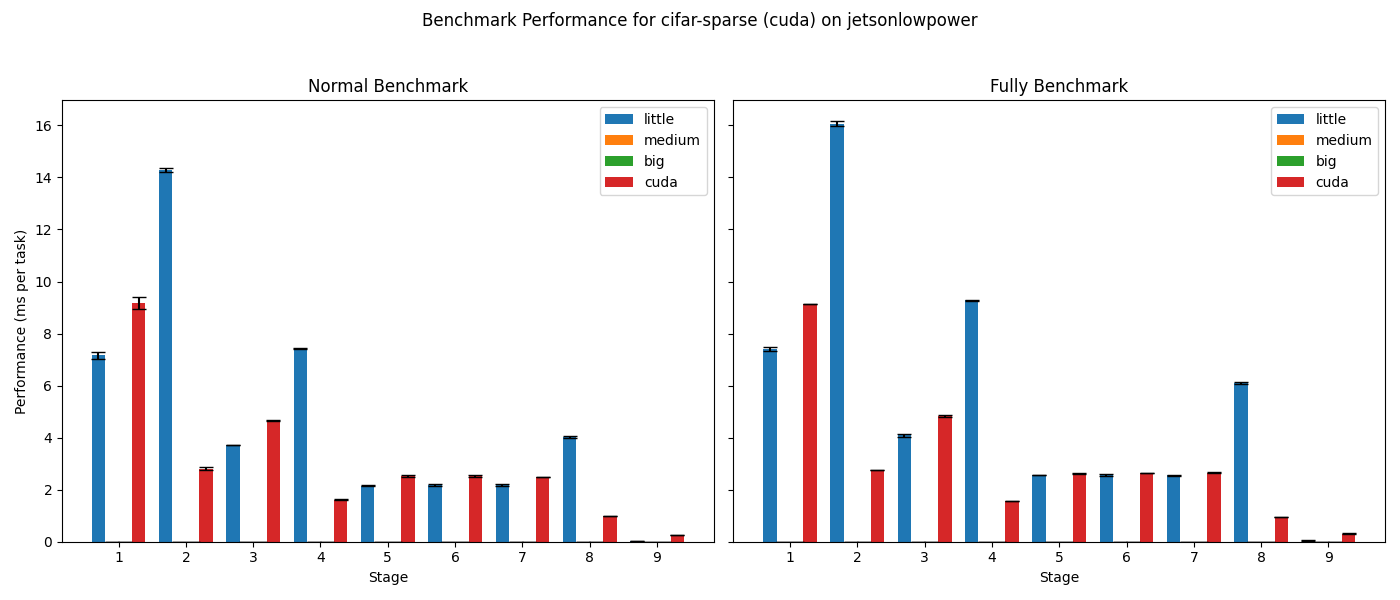
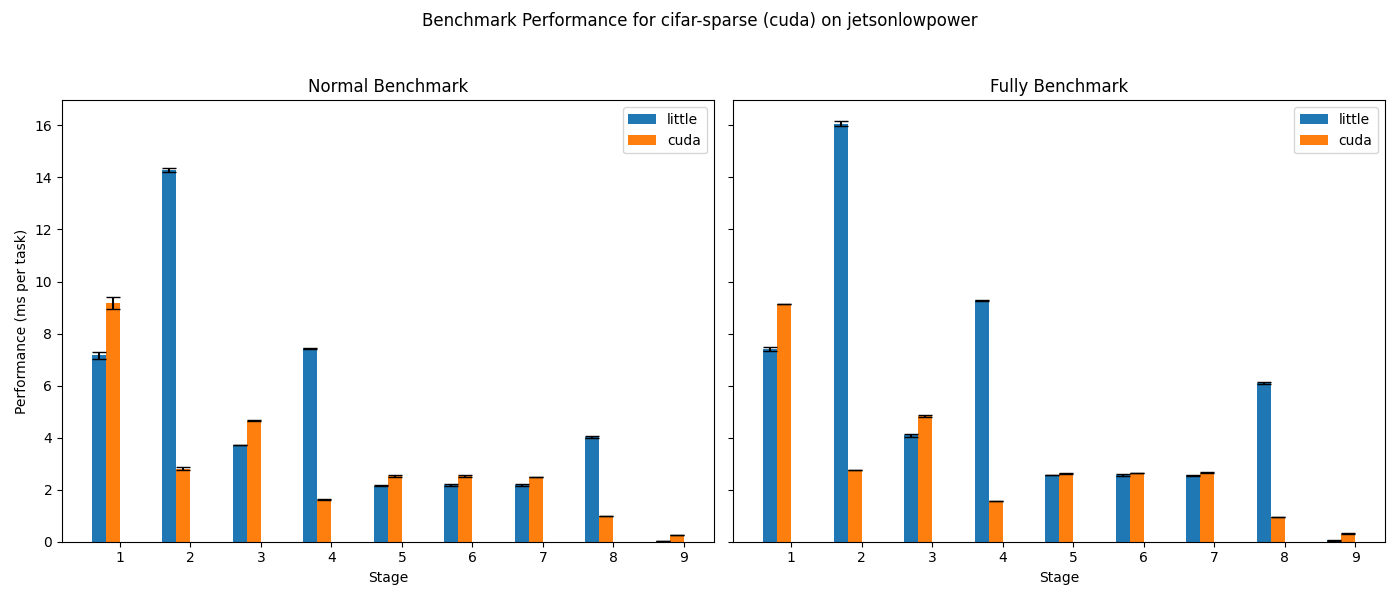
save

diff --git a/scripts/collect/make_heatmap.py b/scripts/collect/make_heatmap.py
@@ -12,6 +12,16 @@ BACKEND_COL_MAP = {
 }
 
 
+def get_available_cores(df, backend_col):
+    """Get list of available cores from the DataFrame by checking for non-zero values."""
+    all_cores = ["little", "medium", "big", backend_col]
+    available_cores = []
+    for core in all_cores:
+        if core in df.columns and not df[core].eq(0).all():
+            available_cores.append(core)
+    return available_cores
+
+
 def aggregate_data(df, value_cols):
     """
     Group the DataFrame by 'stage' and compute mean and std for the specified columns.
@@ -27,7 +37,7 @@ def aggregate_data(df, value_cols):
 def plot_bar_chart(
     mean_normal, std_normal, mean_fully, std_fully, device, out_folder, app, backend_col
 ):
-    pu_list = ["little", "medium", "big", backend_col]
+    available_cores = mean_normal.columns.tolist()
     stages = mean_normal.index.astype(int).tolist()
     x = np.arange(len(stages))
     width = 0.2
@@ -37,7 +47,7 @@ def plot_bar_chart(
     data_pairs = [(mean_normal, std_normal), (mean_fully, std_fully)]
 
     for ax, (mean_df, std_df), title in zip(axs, data_pairs, titles):
-        for i, pu in enumerate(pu_list):
+        for i, pu in enumerate(available_cores):
             pos = x - (1.5 * width) + i * width
             ax.bar(pos, mean_df[pu], width, yerr=std_df[pu], capsize=5, label=pu)
         ax.set_xticks(x)
@@ -56,11 +66,11 @@ def plot_bar_chart(
 
 
 def plot_heatmap(diff_df, device, out_folder, app, backend_col):
-    pu_list = diff_df.columns.tolist()
+    available_cores = diff_df.columns.tolist()
     fig, ax = plt.subplots(figsize=(8, 6))
     cax = ax.imshow(diff_df.values, cmap="coolwarm", aspect="auto")
-    ax.set_xticks(np.arange(len(pu_list)))
-    ax.set_xticklabels(pu_list)
+    ax.set_xticks(np.arange(len(available_cores)))
+    ax.set_xticklabels(available_cores)
     ax.set_yticks(np.arange(len(diff_df.index)))
     ax.set_yticklabels(diff_df.index.astype(str))
     ax.set_xlabel("Processing Unit")
@@ -81,11 +91,11 @@ def plot_heatmap(diff_df, device, out_folder, app, backend_col):
 
 
 def plot_ratio_heatmap(ratio_df, device, out_folder, app, backend_col):
-    pu_list = ratio_df.columns.tolist()
+    available_cores = ratio_df.columns.tolist()
     fig, ax = plt.subplots(figsize=(8, 6))
     cax = ax.imshow(ratio_df.values, cmap="coolwarm", aspect="auto", vmin=0, vmax=2)
-    ax.set_xticks(np.arange(len(pu_list)))
-    ax.set_xticklabels(pu_list)
+    ax.set_xticks(np.arange(len(available_cores)))
+    ax.set_xticklabels(available_cores)
     ax.set_yticks(np.arange(len(ratio_df.index)))
     ax.set_yticklabels(ratio_df.index.astype(str))
     ax.set_xlabel("Processing Unit")
@@ -144,6 +154,10 @@ def main():
     df_normal = pd.read_csv(normal_csv)
     df_fully = pd.read_csv(fully_csv)
 
+    # Get available cores from the data
+    available_cores = get_available_cores(df_normal, backend_col)
+    print(f"Available cores for {device}: {available_cores}")
+
     exclude = []
     if args.exclude_stages:
         try:
@@ -153,9 +167,8 @@ def main():
             print(f"Invalid --exclude_stages: {args.exclude_stages}")
             return
 
-    cols = ["little", "medium", "big", backend_col]
-    mean_n, std_n, cv_n = aggregate_data(df_normal, cols)
-    mean_f, std_f, cv_f = aggregate_data(df_fully, cols)
+    mean_n, std_n, cv_n = aggregate_data(df_normal, available_cores)
+    mean_f, std_f, cv_f = aggregate_data(df_fully, available_cores)
 
     if exclude:
         idx = mean_n.index.astype(int)
